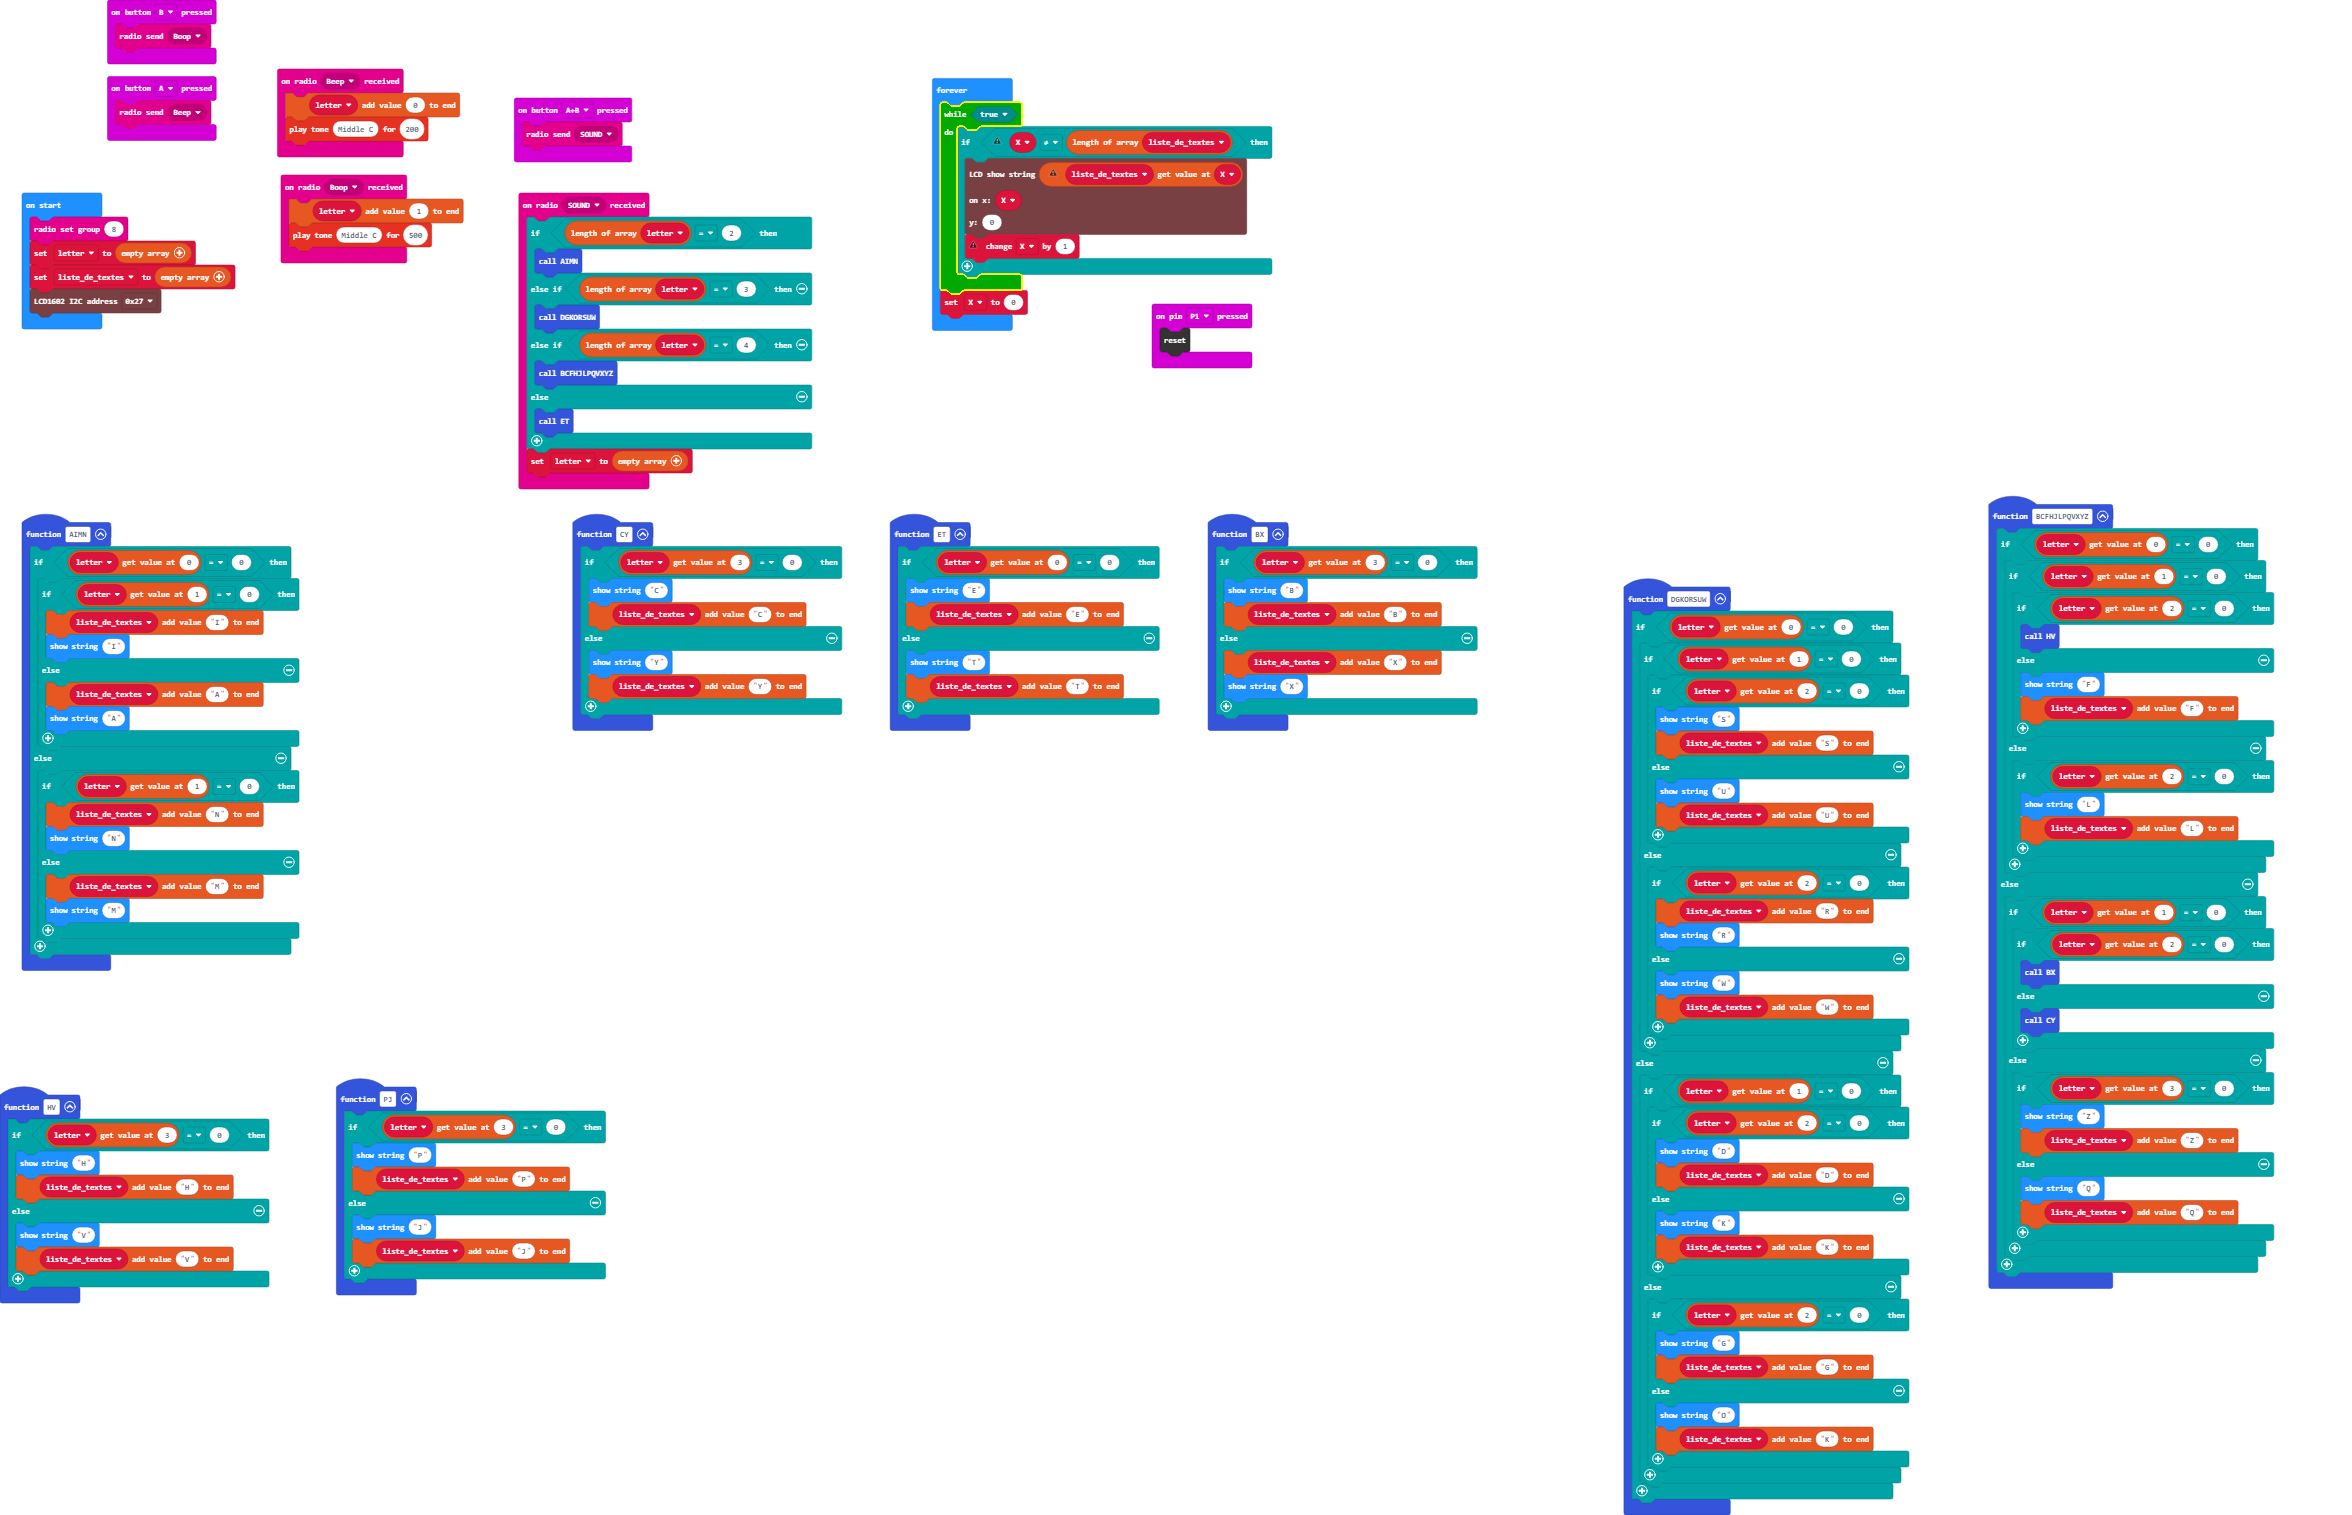
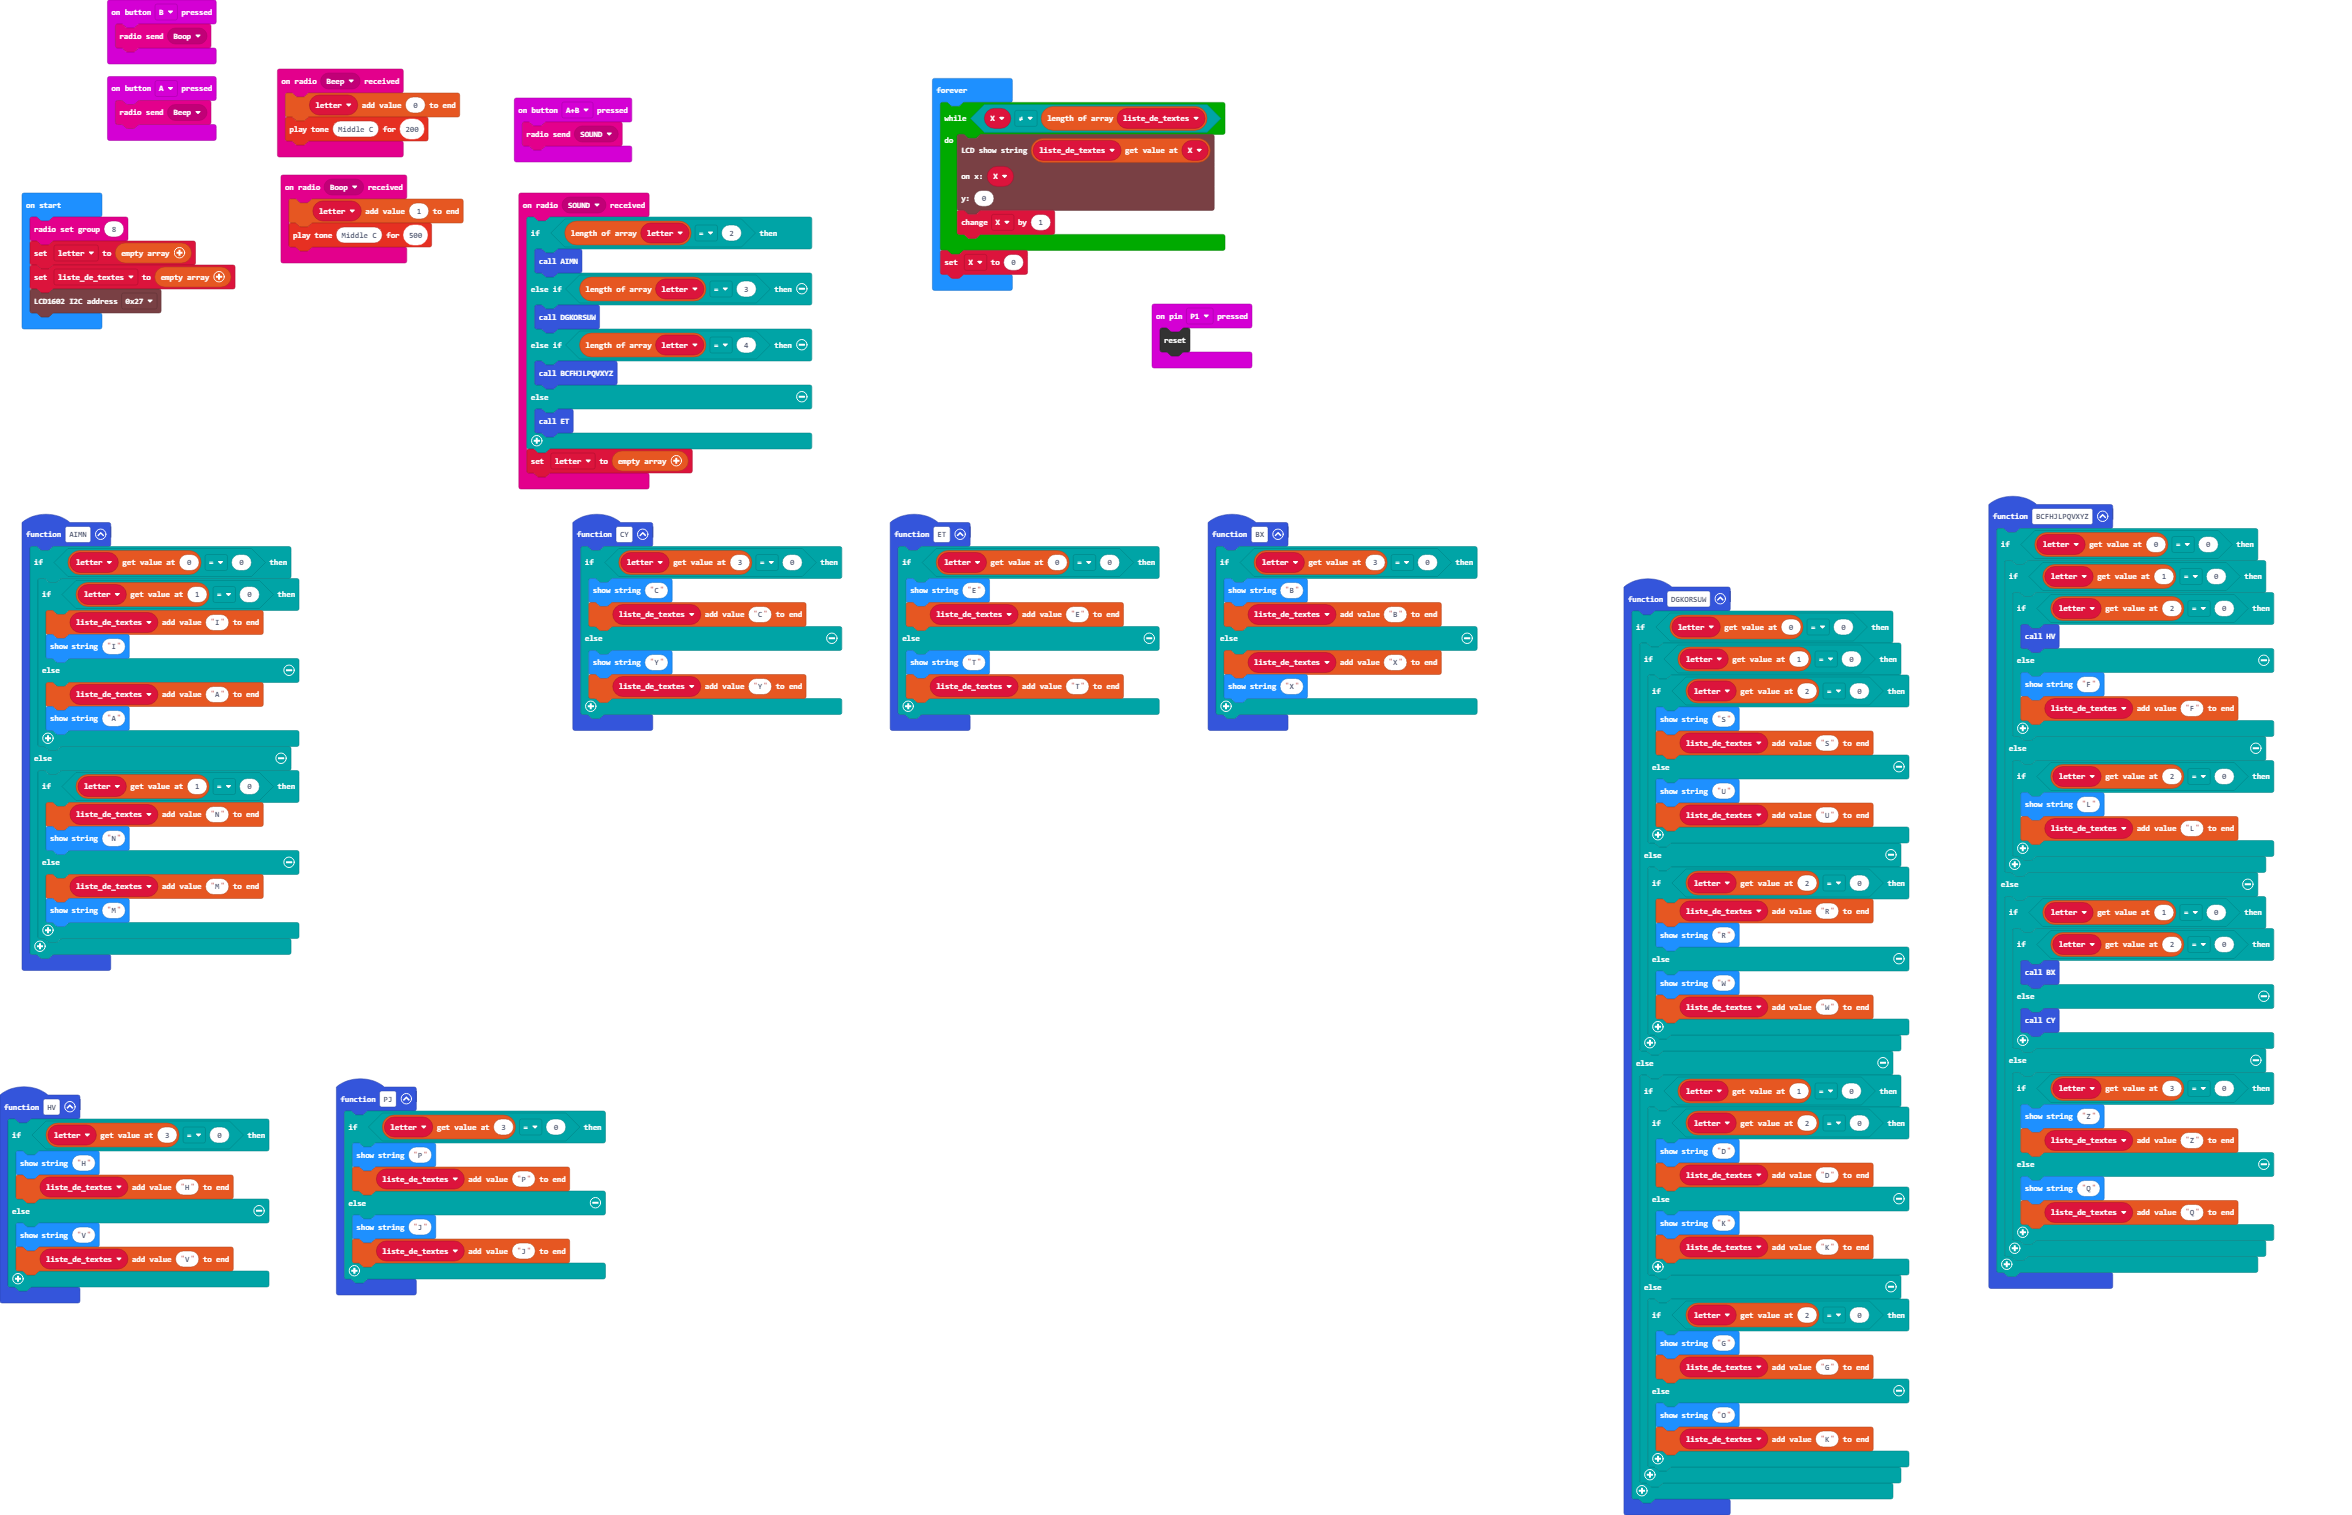
Update main.blocks, main.ts

Changed region(s): [[0.3724, 0.062, 0.5587, 0.2172]]

diff --git a/main.ts b/main.ts
@@ -182,15 +182,13 @@ lcd1602.setAddress(
 lcd1602.I2C_ADDR.addr1
 )
 basic.forever(function () {
-    while (true) {
-        if (X != liste_de_textes.length) {
-            lcd1602.putString(
-            liste_de_textes[X],
-            X,
-            0
-            )
-            X += 1
-        }
+    while (X != liste_de_textes.length) {
+        lcd1602.putString(
+        liste_de_textes[X],
+        X,
+        0
+        )
+        X += 1
     }
     X = 0
 })
